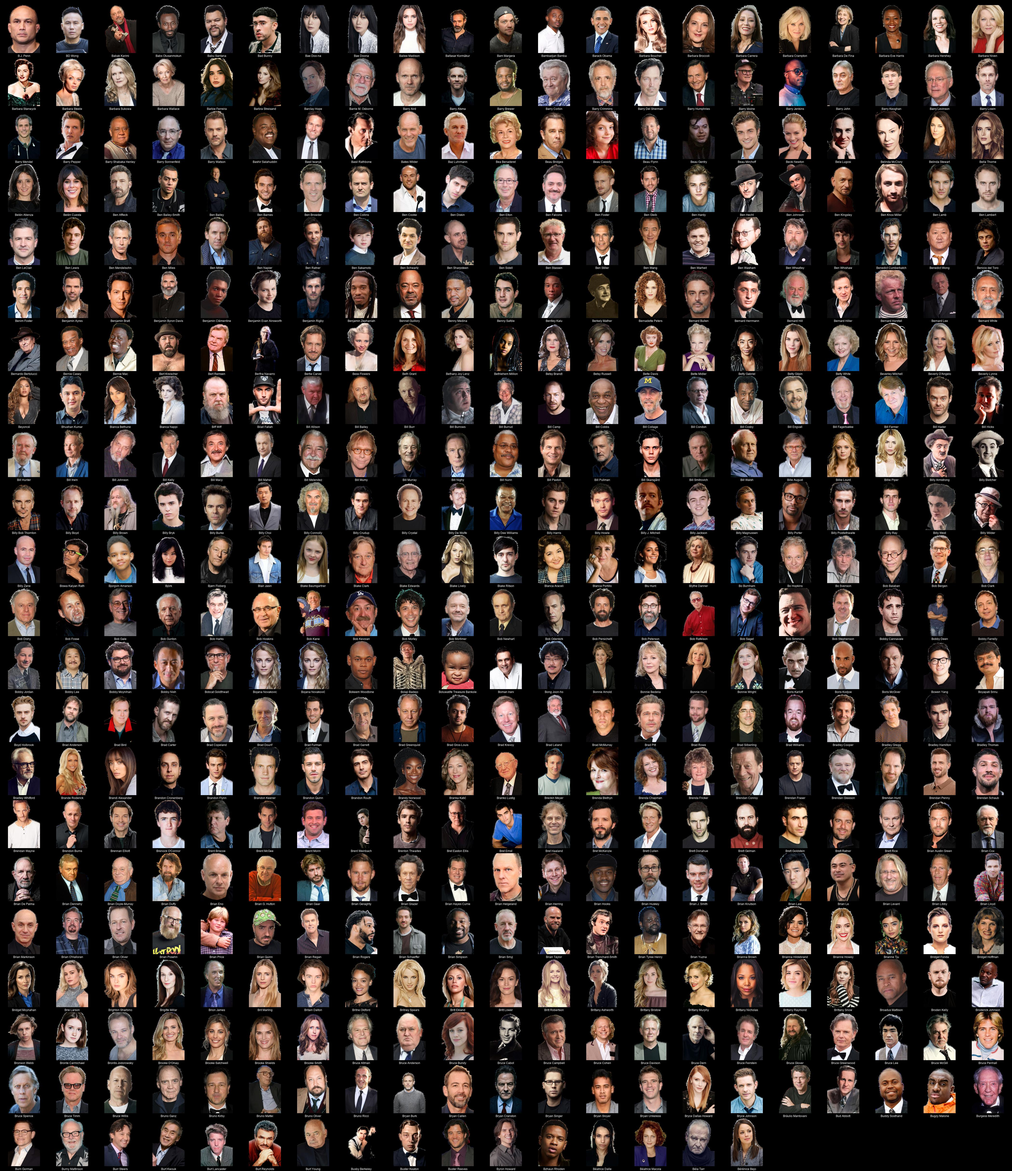
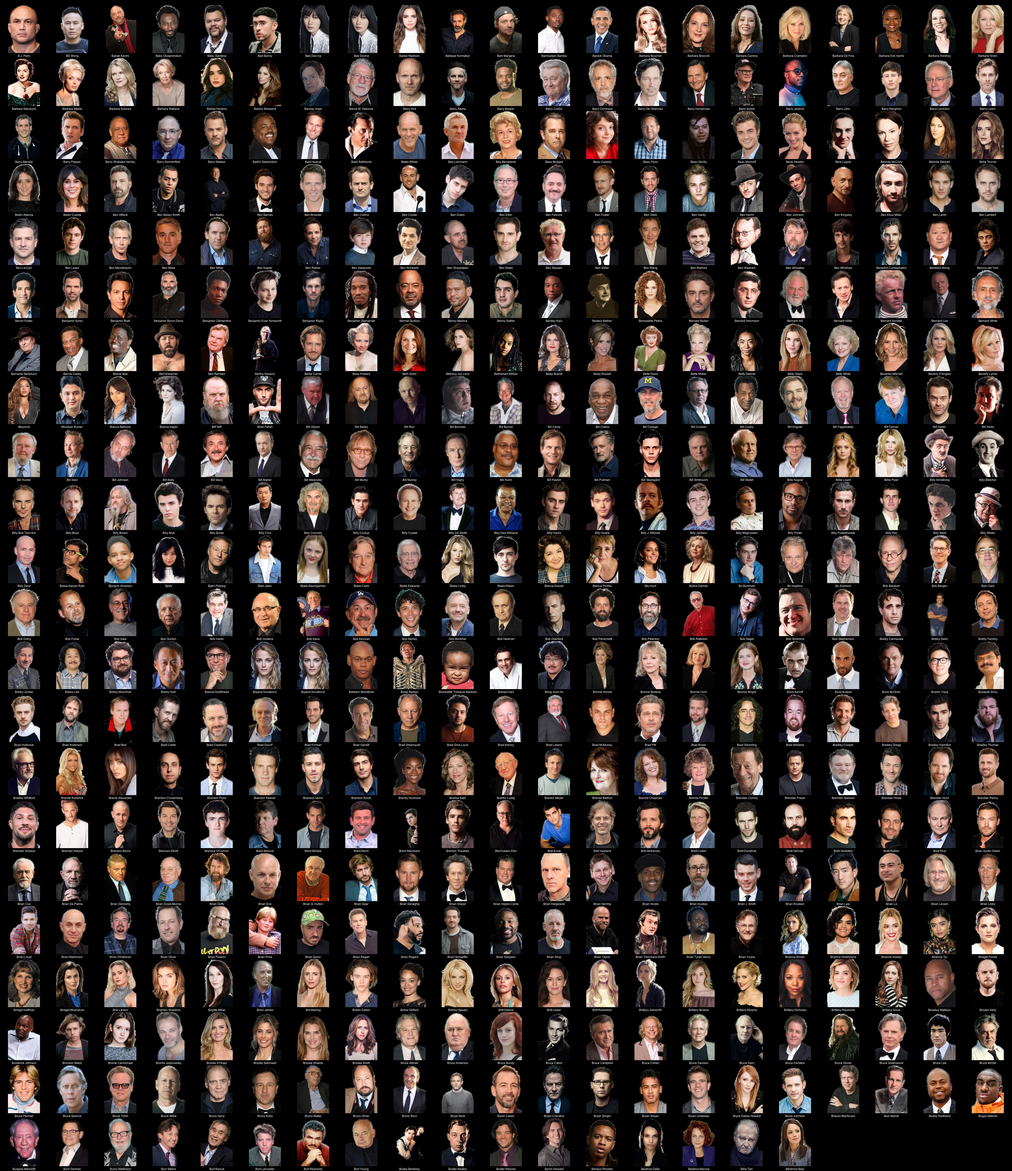
more people

Changed region(s): [[0.0, 0.6214, 0.9981, 1.0]]

diff --git a/README.md b/README.md
@@ -1,4 +1,4 @@
-# Kometa People Images - Transparent (transparent) (8981 Images)
+# Kometa People Images - Transparent (transparent) (8983 Images)
 
 <details><summary><a href="'">' (1 Images)</a></summary>
 
@@ -745,7 +745,7 @@
 * [Azhar Usman](https://raw.githubusercontent.com/Kometa-Team/People-Images-transparent/master/A/Images/Azhar%20Usman.png)
 * [Aziz Ansari](https://raw.githubusercontent.com/Kometa-Team/People-Images-transparent/master/A/Images/Aziz%20Ansari.png)
 </details>
-<details><summary><a href="B">B (457 Images)</a></summary>
+<details><summary><a href="B">B (458 Images)</a></summary>
 
 * [B.J. Penn](https://raw.githubusercontent.com/Kometa-Team/People-Images-transparent/master/B/Images/B.J.%20Penn.png)
 * [BD Wong](https://raw.githubusercontent.com/Kometa-Team/People-Images-transparent/master/B/Images/BD%20Wong.png)
@@ -1059,6 +1059,7 @@
 * [Brendan Conroy](https://raw.githubusercontent.com/Kometa-Team/People-Images-transparent/master/B/Images/Brendan%20Conroy.png)
 * [Brendan Fraser](https://raw.githubusercontent.com/Kometa-Team/People-Images-transparent/master/B/Images/Brendan%20Fraser.png)
 * [Brendan Gleeson](https://raw.githubusercontent.com/Kometa-Team/People-Images-transparent/master/B/Images/Brendan%20Gleeson.png)
+* [Brendan Hines](https://raw.githubusercontent.com/Kometa-Team/People-Images-transparent/master/B/Images/Brendan%20Hines.png)
 * [Brendan Hunt](https://raw.githubusercontent.com/Kometa-Team/People-Images-transparent/master/B/Images/Brendan%20Hunt.png)
 * [Brendan Penny](https://raw.githubusercontent.com/Kometa-Team/People-Images-transparent/master/B/Images/Brendan%20Penny.png)
 * [Brendan Schaub](https://raw.githubusercontent.com/Kometa-Team/People-Images-transparent/master/B/Images/Brendan%20Schaub.png)
@@ -1800,7 +1801,7 @@
 * [Cédric Klapisch](https://raw.githubusercontent.com/Kometa-Team/People-Images-transparent/master/C/Images/C%C3%A9dric%20Klapisch.png)
 * [Céline Sciamma](https://raw.githubusercontent.com/Kometa-Team/People-Images-transparent/master/C/Images/C%C3%A9line%20Sciamma.png)
 </details>
-<details><summary><a href="D">D (600 Images)</a></summary>
+<details><summary><a href="D">D (601 Images)</a></summary>
 
 * [D.L. Hughley](https://raw.githubusercontent.com/Kometa-Team/People-Images-transparent/master/D/Images/D.L.%20Hughley.png)
 * [D.R. Nanayakkara](https://raw.githubusercontent.com/Kometa-Team/People-Images-transparent/master/D/Images/D.R.%20Nanayakkara.png)
@@ -2150,6 +2151,7 @@
 * [Dean Stockwell](https://raw.githubusercontent.com/Kometa-Team/People-Images-transparent/master/D/Images/Dean%20Stockwell.png)
 * [Dean Winters](https://raw.githubusercontent.com/Kometa-Team/People-Images-transparent/master/D/Images/Dean%20Winters.png)
 * [Dean-Charles Chapman](https://raw.githubusercontent.com/Kometa-Team/People-Images-transparent/master/D/Images/Dean-Charles%20Chapman.png)
+* [Deanna Russo](https://raw.githubusercontent.com/Kometa-Team/People-Images-transparent/master/D/Images/Deanna%20Russo.png)
 * [Debbie Isitt](https://raw.githubusercontent.com/Kometa-Team/People-Images-transparent/master/D/Images/Debbie%20Isitt.png)
 * [Debbon Ayer](https://raw.githubusercontent.com/Kometa-Team/People-Images-transparent/master/D/Images/Debbon%20Ayer.png)
 * [Debi Derryberry](https://raw.githubusercontent.com/Kometa-Team/People-Images-transparent/master/D/Images/Debi%20Derryberry.png)

diff --git a/D/README.md b/D/README.md
@@ -1,4 +1,4 @@
-# Kometa People Images - Transparent (transparent) - D (600 Images)
+# Kometa People Images - Transparent (transparent) - D (601 Images)
 ![Grid](grid.jpg)
 
 * [D.L. Hughley](https://raw.githubusercontent.com/Kometa-Team/People-Images-transparent/master/D/Images/D.L.%20Hughley.png)
@@ -349,6 +349,7 @@
 * [Dean Stockwell](https://raw.githubusercontent.com/Kometa-Team/People-Images-transparent/master/D/Images/Dean%20Stockwell.png)
 * [Dean Winters](https://raw.githubusercontent.com/Kometa-Team/People-Images-transparent/master/D/Images/Dean%20Winters.png)
 * [Dean-Charles Chapman](https://raw.githubusercontent.com/Kometa-Team/People-Images-transparent/master/D/Images/Dean-Charles%20Chapman.png)
+* [Deanna Russo](https://raw.githubusercontent.com/Kometa-Team/People-Images-transparent/master/D/Images/Deanna%20Russo.png)
 * [Debbie Isitt](https://raw.githubusercontent.com/Kometa-Team/People-Images-transparent/master/D/Images/Debbie%20Isitt.png)
 * [Debbon Ayer](https://raw.githubusercontent.com/Kometa-Team/People-Images-transparent/master/D/Images/Debbon%20Ayer.png)
 * [Debi Derryberry](https://raw.githubusercontent.com/Kometa-Team/People-Images-transparent/master/D/Images/Debi%20Derryberry.png)

diff --git a/B/README.md b/B/README.md
@@ -1,4 +1,4 @@
-# Kometa People Images - Transparent (transparent) - B (457 Images)
+# Kometa People Images - Transparent (transparent) - B (458 Images)
 ![Grid](grid.jpg)
 
 * [B.J. Penn](https://raw.githubusercontent.com/Kometa-Team/People-Images-transparent/master/B/Images/B.J.%20Penn.png)
@@ -313,6 +313,7 @@
 * [Brendan Conroy](https://raw.githubusercontent.com/Kometa-Team/People-Images-transparent/master/B/Images/Brendan%20Conroy.png)
 * [Brendan Fraser](https://raw.githubusercontent.com/Kometa-Team/People-Images-transparent/master/B/Images/Brendan%20Fraser.png)
 * [Brendan Gleeson](https://raw.githubusercontent.com/Kometa-Team/People-Images-transparent/master/B/Images/Brendan%20Gleeson.png)
+* [Brendan Hines](https://raw.githubusercontent.com/Kometa-Team/People-Images-transparent/master/B/Images/Brendan%20Hines.png)
 * [Brendan Hunt](https://raw.githubusercontent.com/Kometa-Team/People-Images-transparent/master/B/Images/Brendan%20Hunt.png)
 * [Brendan Penny](https://raw.githubusercontent.com/Kometa-Team/People-Images-transparent/master/B/Images/Brendan%20Penny.png)
 * [Brendan Schaub](https://raw.githubusercontent.com/Kometa-Team/People-Images-transparent/master/B/Images/Brendan%20Schaub.png)
